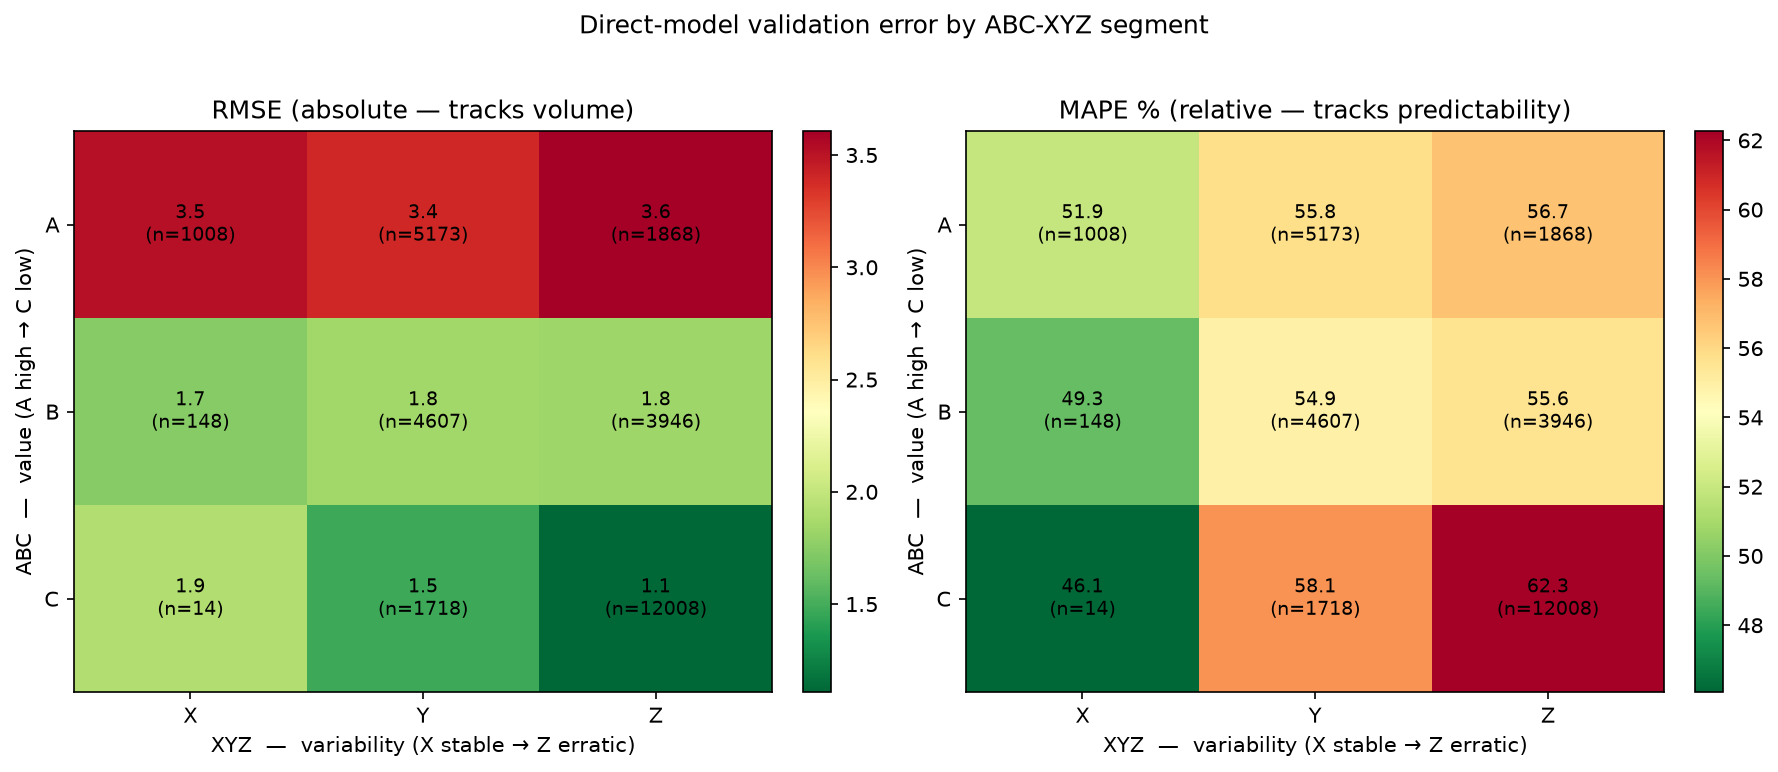
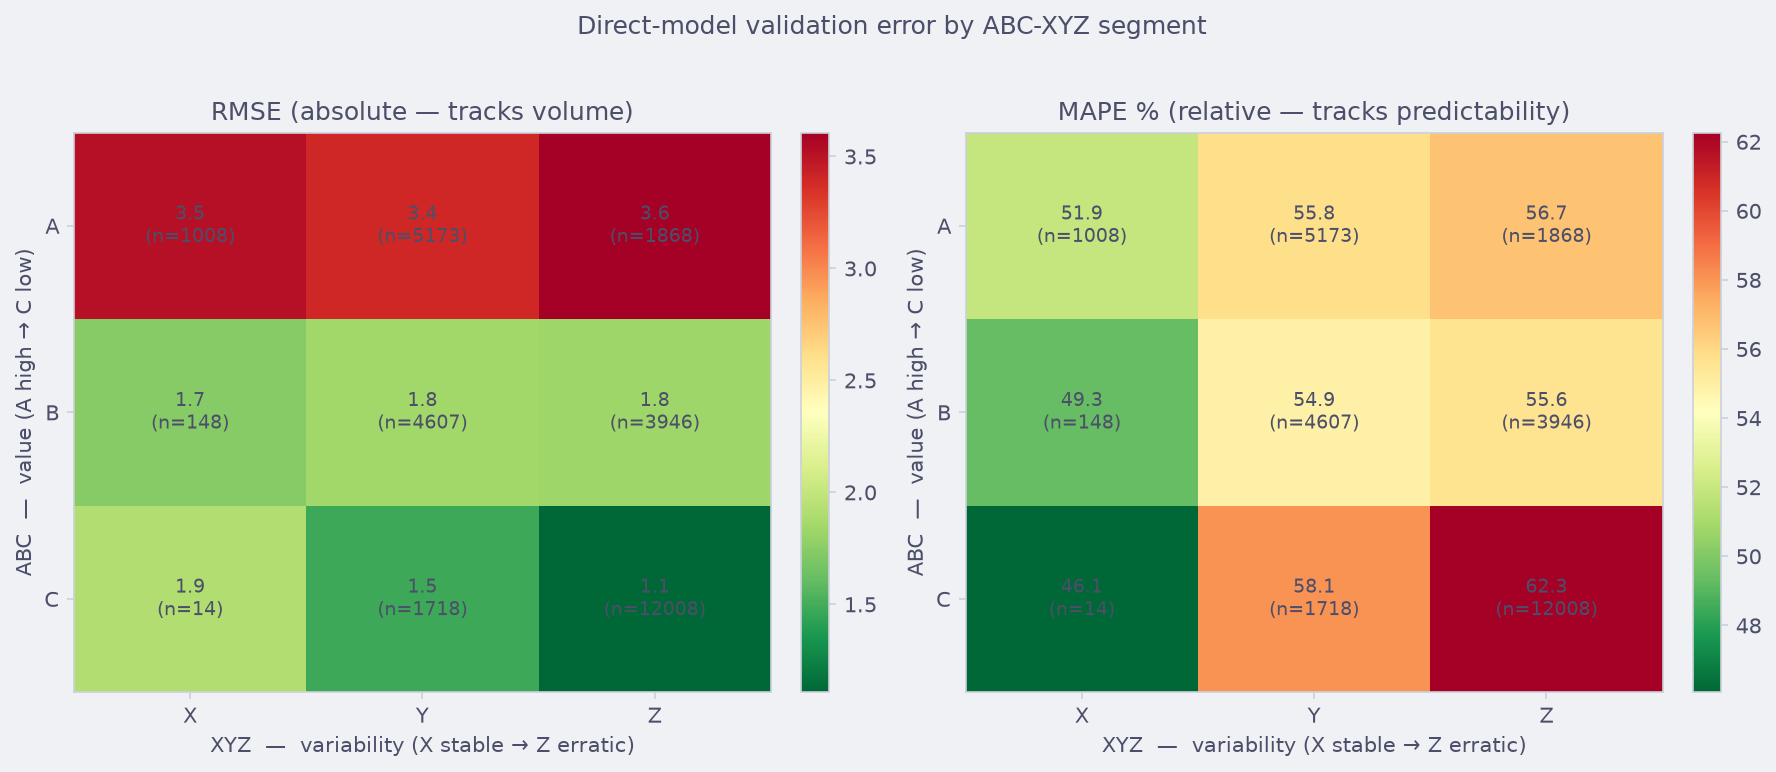
fix: Correct import issue with catppuccin

diff --git a/src/model.py b/src/model.py
@@ -120,21 +120,21 @@ def train_model(
     cross-series information sharing, one artifact to maintain, and graceful
     handling of short/cold-start series.
 
-    The five identifier columns in ``FEATURE_COLS``
-    (``item_id``, ``store_id``, ``dept_id``, ``cat_id``, ``state_id``) arrive as
-    pandas ``category`` dtype from ``build_features``, so LightGBM detects them
-    as categorical automatically — no explicit ``categorical_feature`` list is
+    The five identifier columns in `FEATURE_COLS`
+    (`item_id`, `store_id`, `dept_id`, `cat_id`, `state_id`) arrive as
+    pandas `category` dtype from `build_features`, so LightGBM detects them
+    as categorical automatically — no explicit `categorical_feature` list is
     needed. Lag/rolling NaNs (the first 28 days of each series) are handled
     natively by LightGBM.
 
     Parameters
     ----------
     X_train : DataFrame
-        Training feature matrix (columns are ``FEATURE_COLS``).
+        Training feature matrix (columns are `FEATURE_COLS`).
     y_train : ArrayLike
-        Training target (``TARGET_COL``).
+        Training target (`TARGET_COL`).
     params : dict
-        LightGBM hyperparameters, passed to ``LGBMRegressor(**params)``.
+        LightGBM hyperparameters, passed to `LGBMRegressor(**params)`.
     X_val, y_val : DataFrame, ArrayLike, optional
         Validation set. When both are given, training uses early stopping
         against the validation RMSE.
@@ -148,7 +148,9 @@ def train_model(
         The fitted model.
     """
     model = LGBMRegressor(**params)
-    logger.info(f"Training LightGBM on {len(X_train):,} rows, {X_train.shape[1]} features")
+    logger.info(
+        f"Training LightGBM on {len(X_train):,} rows, {X_train.shape[1]} features"
+    )
 
     fit_kwargs: dict = {}
     if X_val is not None and y_val is not None:
@@ -161,7 +163,9 @@ def train_model(
 
     model.fit(X_train, y_train, **fit_kwargs)
 
-    logger.info(f"Trained {model.n_estimators_} trees (best iteration: {model.best_iteration_})")
+    logger.info(
+        f"Trained {model.n_estimators_} trees (best iteration: {model.best_iteration_})"
+    )
     return model
 
 
@@ -179,7 +183,7 @@ def mape(y_true: ArrayLike, y_pred: ArrayLike) -> float:
     M5 demand is intermittent — many actuals are zero, for which percentage
     error is undefined. Those rows are masked out, so MAPE is reported only
     over non-zero actuals. RMSE (above) is the leakage-free primary metric;
-    MAPE is a secondary, business-friendly figure. Returns ``nan`` if every
+    MAPE is a secondary, business-friendly figure. Returns `nan` if every
     actual is zero.
     """
     y_true = np.asarray(y_true, dtype=float)
@@ -187,4 +191,5 @@ def mape(y_true: ArrayLike, y_pred: ArrayLike) -> float:
     mask = y_true != 0
     if not mask.any():
         return float("nan")
-    return float(np.mean(np.abs((y_true[mask] - y_pred[mask]) / y_true[mask])) * 100)
+    y_true, y_pred = y_true[mask], y_pred[mask]
+    return float(np.mean(np.abs((y_true - y_pred) / y_true)) * 100)

diff --git a/src/plotting.py b/src/plotting.py
@@ -1,10 +1,49 @@
-import matplotlib as mpl
+import importlib.util
+from pathlib import Path
+
+import matplotlib
 import matplotlib.pyplot as plt
 
-from catppuccin.extras.matplotlib import CATPPUCCIN_STYLE_DIRECTORY
+# Catppuccin flavour used across the project's charts.
+_FLAVOR = "latte"
+_FALLBACK_STYLE = "seaborn-v0_8-whitegrid"
+_FALLBACK_CMAP = "viridis"
 
 
-def configure_matplotlib() -> None:
-    styles = mpl.style.core.read_style_directory(CATPPUCCIN_STYLE_DIRECTORY)  # type: ignore[attr-defined]
-    mpl.style.core.update_nested_dict(mpl.style.library, styles)  # type: ignore[attr-defined]
-    plt.style.use("latte")
+def _catppuccin_style_path(flavor: str = _FLAVOR) -> Path | None:
+    """
+    Locate a Catppuccin `.mplstyle` file without importing `catppuccin`.
+
+    The `catppuccin` package (2.5.x) registers its styles at import time via
+    `matplotlib.style.core`, which matplotlib >= 3.11 removed — so `import
+    catppuccin` raises `AttributeError`. `find_spec` locates the installed
+    package directory *without* executing its `__init__`, so we can load the
+    shipped style file directly. Returns `None` if it isn't installed.
+    """
+    spec = importlib.util.find_spec("catppuccin")
+    if spec is None or not spec.submodule_search_locations:
+        return None
+    path = (
+        Path(spec.submodule_search_locations[0])
+        / "extras"
+        / "matplotlib_styles"
+        / f"{flavor}.mplstyle"
+    )
+    return path if path.exists() else None
+
+
+def configure_matplotlib(flavor: str = _FLAVOR) -> None:
+    """
+    Apply the project's Catppuccin plot style.
+
+    Loads the shipped `<flavor>.mplstyle` directly (see
+    `_catppuccin_style_path` for why we avoid `import catppuccin`), falling
+    back to a clean built-in style if it can't be found — so this never raises.
+    """
+    style_path = _catppuccin_style_path(flavor)
+    plt.style.use(str(style_path) if style_path is not None else _FALLBACK_STYLE)
+    # The Catppuccin styles set `image.cmap` to a custom colormap that only the
+    # (bypassed) `import catppuccin` registers, which would make imshow/colorbar
+    # raise. Reset it to a valid default when that colormap isn't registered.
+    if plt.rcParams["image.cmap"] not in matplotlib.colormaps:
+        plt.rcParams["image.cmap"] = _FALLBACK_CMAP

diff --git a/src/baselines.py b/src/baselines.py
@@ -9,26 +9,20 @@ window reference only actual demand observed at or before the cutoff (the last
 against the horizon-safe LightGBM model.
 """
 
-import sys
+import json
 from pathlib import Path
 from typing import Annotated, Optional
 
-_ROOT = Path(__file__).resolve().parent.parent
-if str(_ROOT) not in sys.path:
-    sys.path.insert(0, str(_ROOT))
+import pandas as pd
+import typer
+from pandas import DataFrame
 
-import json  # noqa: E402
-
-import pandas as pd  # noqa: E402
-import typer  # noqa: E402
-from pandas import DataFrame  # noqa: E402
-
-from src._logging import logger, configure_logging  # noqa: E402
-from src.cli import create_app  # noqa: E402
-from src.model import mape, rmse  # noqa: E402
+from src._logging import logger, configure_logging
+from src.cli import create_app
+from src.model import mape, rmse
 
 
-ROOT_DIR = _ROOT
+ROOT_DIR = Path(__file__).parent.parent
 PROCESSED_DATA_DIR = ROOT_DIR / "data" / "processed"
 OUTPUTS_DIR = ROOT_DIR / "outputs"
 DEFAULT_METRICS_PATH = OUTPUTS_DIR / "baseline_metrics.json"
@@ -80,18 +74,15 @@ def naive_seasonal_forecast(
     cutoff = df[date_col].max() - pd.Timedelta(days=val_days - 1)
     val = df[df[date_col] >= cutoff].copy()
     val["offset"] = (val[date_col] - cutoff).dt.days
-    val["ref_date"] = cutoff - pd.Timedelta(days=lag) + pd.to_timedelta(
-        val["offset"] % lag, unit="D"
+    val["ref_date"] = (
+        cutoff - pd.Timedelta(days=lag) + pd.to_timedelta(val["offset"] % lag, unit="D")
     )
 
     # Only the last `lag` observed days can ever be referenced — keep just those.
     ref_lo = cutoff - pd.Timedelta(days=lag)
-    hist = (
-        df[(df[date_col] >= ref_lo) & (df[date_col] < cutoff)][
-            [*group_cols, date_col, value_col]
-        ]
-        .rename(columns={date_col: "ref_date", value_col: "prediction"})
-    )
+    hist = df[(df[date_col] >= ref_lo) & (df[date_col] < cutoff)][
+        [*group_cols, date_col, value_col]
+    ].rename(columns={date_col: "ref_date", value_col: "prediction"})
 
     val = val.merge(hist, on=[*group_cols, "ref_date"], how="left")
     val["prediction"] = val["prediction"].fillna(0.0)

diff --git a/tests/test_plotting.py b/tests/test_plotting.py
@@ -1,0 +1,28 @@
+import matplotlib
+
+matplotlib.use("Agg")  # headless backend for tests
+import matplotlib.pyplot as plt  # noqa: E402
+
+from src.plotting import _catppuccin_style_path, configure_matplotlib  # noqa: E402
+
+
+class TestConfigureMatplotlib:
+    def test_runs_without_error(self):
+        # Regression: catppuccin 2.5 + matplotlib >= 3.11 used to crash on import.
+        configure_matplotlib()
+
+    def test_image_cmap_is_valid(self):
+        # The Catppuccin style's `image.cmap: latte` isn't registered here; it
+        # must be sanitised so imshow/colorbar don't fail.
+        configure_matplotlib()
+        assert plt.rcParams["image.cmap"] in matplotlib.colormaps
+
+    def test_applies_catppuccin_latte_when_available(self):
+        if _catppuccin_style_path() is not None:
+            configure_matplotlib("latte")
+            assert plt.rcParams["axes.facecolor"].lower() == "#eff1f5"
+
+    def test_unknown_flavour_falls_back_without_error(self):
+        # Missing flavour -> no style file -> built-in fallback, never raises.
+        assert _catppuccin_style_path("not_a_flavour") is None
+        configure_matplotlib("not_a_flavour")
